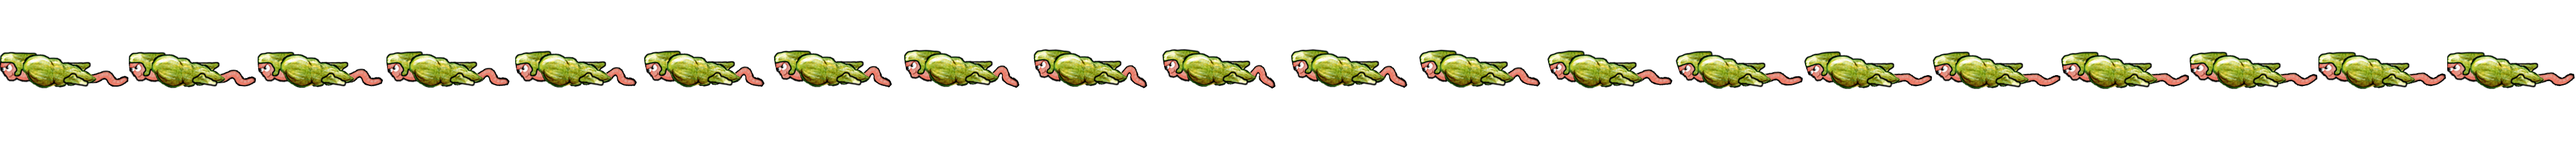
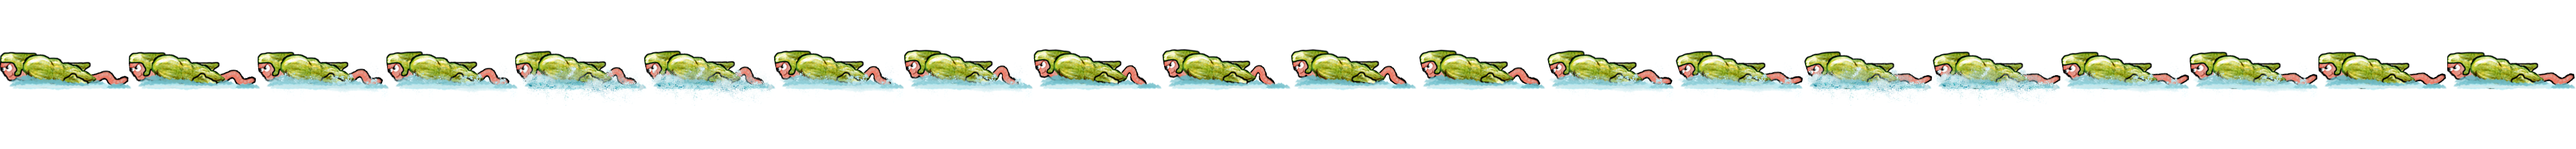
Added audio and some temporary audio files; integrated new HUD; integrated splash in paalworm move animation; added new platforms

Changed region(s): [[0.0, 0.4553, 1.0, 0.626]]

diff --git a/script/HTML5_2DRE/HTML5_2DRE.js b/script/HTML5_2DRE/HTML5_2DRE.js
@@ -2,4 +2,4 @@
 // authors: Ylon Schaeffer, Thomas van der Berg
 // source: https://github.com/tmsbrg/fries-heimeiden/tree/engine/script/HTML5_2DRE
 // license: XFree86 license - http://eraclesoftware.com/legal/
-function includeJS(e){var t=document.createElement("script");t.setAttribute("src",e),t.setAttribute("type","text/javascript"),document.getElementsByTagName("head")[0].appendChild(t)}function HTML5_2DRE_start(){loaded=View.init()&&Model.init()&&Controller.init(),loaded?(HTML5_2DRE_initialize(),HTML5_2DRE_gameLoop()):console.log("Error: One or more of MVC main objects could be initialized.")}function HTML5_2DRE_gameLoop(){prevTime=curTime,curTime=Date.now(),deltaTime===-1?deltaTime=1/View.fps:deltaTime=(curTime-prevTime)/1e3,Controller.base_update(),View.base_draw(),setTimeout(function(){HTML5_2DRE_gameLoop()},View.fpsinterval)}function HTML5_2DRE_initialize(){initialize&&initialize()}var prevTime=0,curTime=0,deltaTime=-1,IE=document.all?!0:!1;IE||document.captureEvents(Event.MOUSEMOVE),window.onload=HTML5_2DRE_start,Model={drawableObjects:new Array,init:function(){return!0},addDrawable:function(e,t){if(t==null||t==undefined)n=this.drawableObjects.length,t=n>0?this.drawableObjects[n-1].depth+1:0;else{var n=0;for(var r=0;r<this.drawableObjects.length;r++)t>=this.drawableObjects[r].depth&&(n=r+1)}e.depth=t,this.drawableObjects.insert(n,e),e.onDrawInit&&e.onDrawInit()},removeDrawable:function(e){for(var t=0;t<this.drawableObjects.length;t++)if(this.drawableObjects[t]==e){delete this.drawableObjects[t],this.drawableObjects.splice(t,1);break}},requestFromServer:function(e,t,n,r){r==null&&(r=!1),xmlhttp=new XMLHttpRequest,xmlhttp.onreadystatechange=function(){xmlhttp.readyState==4&&xmlhttp.status==200&&this.oncomplete(xmlhttp.responseText)},xmlhttp.open(r?"post":"get",e+(r?"":"?"+t),!0),xmlhttp.setRequestHeader("Content-Type","application/x-www-form-urlencoded"),xmlhttp.oncomplete=n,r?xmlhttp.send():xmlhttp.send(t)},getLocalTextFile:function(e){var t=new XMLHttpRequest;return t.open("GET",e,!1),t.overrideMimeType("text/plain"),t.send(),t.responseText}},Object.prototype.clone=function(){var e=this instanceof Array?[]:{};for(var t in this){if(t=="clone")continue;this[t]&&typeof this[t]=="object"?e[t]=this[t].cloneNode?this[t].cloneNode():this[t].clone():e[t]=this[t]}return e&&e.onCloneInit&&e.onCloneInit(),e},Object.prototype.extend=function(e){for(var t in e)this[t]=e[t]},Date.prototype.clone=function(){var e=new Date;return e.setTime(this.getTime()),e},Number.prototype.clone=Boolean.prototype.clone=String.prototype.clone=function(){return this},Number.prototype.formatMoney=function(e,t,n){var r=this,e=isNaN(e=Math.abs(e))?2:e,t=t==undefined?",":t,n=n==undefined?".":n,i=r<0?"-":"",s=parseInt(r=Math.abs(+r||0).toFixed(e))+"",o=(o=s.length)>3?o%3:0;return i+(o?s.substr(0,o)+n:"")+s.substr(o).replace(/(\d{3})(?=\d)/g,"$1"+n)+(e?t+Math.abs(r-s).toFixed(e).slice(2):"")},Array.prototype.insert=function(e,t){e>=this.length?this[this.length]=t:this.splice(e,0,t)},Model.Drawables=new Array,Model.Drawables.BaseDrawable={name:"DrawableObject",position:{x:0,y:0},size:{x:1,y:1},scale:{x:1,y:1},rotation:0,depth:0,color:"#000000",alpha:1,visible:!0,active:!0,ignoremouse:!1,parent:null,drawableObjects:new Array,cursor:"default",onCloneInit:function(){},onDrawInit:function(){},base_draw:function(e){if(!this.visible)return!1;this.draw(e),e.translate(-(this.size.x/2),-(this.size.y/2));for(var t=0;t<this.drawableObjects.length;t++)this.drawableObjects[t]&&(e.save(),e.translate(this.drawableObjects[t].position.x+this.drawableObjects[t].size.x/2,this.drawableObjects[t].position.y+this.drawableObjects[t].size.y/2),e.rotate(this.drawableObjects[t].rotation),e.globalAlpha=this.drawableObjects[t].alpha,this.drawableObjects[t].base_draw(e),e.restore())},base_update:function(){if(!this.active)return!1;this.update();for(var e=0;e<this.drawableObjects.length;e++)this.drawableObjects[e]&&this.drawableObjects[e].base_update()},draw:function(e){},update:function(){},setParent:function(e){this.parent=e},addDrawable:function(e,t){if(t==null||t==undefined)n=this.drawableObjects.length,t=n>0?this.drawableObjects[n-1].depth+1:0;else{var n=0;for(var r=0;r<this.drawableObjects.length;r++)t>=this.drawableObjects[r].depth&&(n=r+1)}e.depth=t,e.setParent(this),this.drawableObjects.insert(n,e),e.onDrawInit&&e.onDrawInit()},removeDrawable:function(e){for(var t=0;t<this.drawableObjects.length;t++)if(this.drawableObjects[t]==e){delete this.drawableObjects[t],this.drawableObjects.splice(t,1);break}},getobjectatpos:function(e,t){if(!e||!t)return this;e-=this.position.x,t-=this.position.y;if(this.drawableObjects&&this.drawableObjects.length>0)for(var n=this.drawableObjects.length-1;n>=0;n--)if(e>=this.drawableObjects[n].position.x&&e<=this.drawableObjects[n].position.x+this.drawableObjects[n].size.x&&t>=this.drawableObjects[n].position.y&&t<=this.drawableObjects[n].position.y+this.drawableObjects[n].size.y&&this.drawableObjects[n].visible&&this.drawableObjects[n].ignoremouse==0)return this.drawableObjects[n].getobjectatpos(e,t);return this},onclick:function(){},onhover:function(){},onmouseout:function(){},onmousein:function(){}},Model.Drawables.RectangleDrawable=Model.Drawables.BaseDrawable.clone(),Model.Drawables.RectangleDrawable.borderColor="#000000",Model.Drawables.RectangleDrawable.borderWidth=0,Model.Drawables.RectangleDrawable.draw=function(e){this.borderWidth>0&&(e.lineWidth=this.borderWidth,e.strokeStyle=this.borderColor,e.strokeRect(-(this.size.x/2),-(this.size.y/2),this.size.x*this.scale.x,this.size.y*this.scale.y)),e.fillStyle=this.color,e.fillRect(-(this.size.x/2),-(this.size.y/2),this.size.x*this.scale.x,this.size.y*this.scale.y)},Model.Drawables.TextDrawable=Model.Drawables.BaseDrawable.clone(),Model.Drawables.TextDrawable.text="",Model.Drawables.TextDrawable.borderColor="#000000",Model.Drawables.TextDrawable.borderWidth=0,Model.Drawables.TextDrawable.font="normal 12px Arial",Model.Drawables.TextDrawable.draw=function(e){this.text!==""&&(this.setStyle(e),this.borderWidth>0&&(e.lineWidth=this.borderWidth,e.strokeStyle=this.borderColor,e.strokeText(this.text,-(this.size.x/2),-(this.size.y/2),this.size.x)),e.fillText(this.text,-(this.size.x/2),-(this.size.y/2),this.size.x))},Model.Drawables.TextDrawable.setStyle=function(e){e.font=this.font,e.fillStyle=this.color,e.textBaseline="top"},Model.Drawables.TextDrawable.setText=function(e){this.text=e,View.ctx.font=this.font,View.ctx.fillStyle=this.color,View.ctx.textBaseline="top",this.size.x=View.ctx.measureText(e).width},Model.Drawables.SpriteDrawable=Model.Drawables.BaseDrawable.clone(),Model.Drawables.SpriteDrawable.borderColor="#000000",Model.Drawables.SpriteDrawable.borderWidth=0,Model.Drawables.SpriteDrawable._image=new Image,Model.Drawables.SpriteDrawable.curImage="",Model.Drawables.SpriteDrawable.onload=function(){this.loaded=!0},Model.Drawables.SpriteDrawable.load=function(e){this._image.onload=this.onload,this._image.parent=this,this._image.src=e,this.curImage=e},Model.Drawables.SpriteDrawable.draw=function(e){this._image.loaded&&(this.borderWidth>0&&(e.lineWidth=this.borderWidth,e.strokeStyle=this.borderColor,e.strokeRect(-(this.size.x/2),-(this.size.y/2),this.size.x*this.scale.x,this.size.y*this.scale.y)),e.drawImage(this._image,-(this.size.x/2),-(this.size.y/2),this.size.x*this.scale.x,this.size.y*this.scale.y))},Model.Drawables.ButtonDrawable=Model.Drawables.SpriteDrawable.clone(),Model.Drawables.ButtonDrawable.text="",Model.Drawables.ButtonDrawable.font="normal 12px Arial",Model.Drawables.ButtonDrawable.cursor="pointer",Model.Drawables.ButtonDrawable.textPos=[5,5],Model.Drawables.ButtonDrawable.onclick=function(){var e=window[this.name+"_onclick"];e&&e()},Model.Drawables.ButtonDrawable.draw=function(e){this._image.loaded&&(e.drawImage(this._image,-(this.size.x/2),-(this.size.y/2),this.size.x*this.scale.x,this.size.y*this.scale.y),this.text!==""&&(e.font=this.font,e.fillStyle=this.color,e.textBaseline="top",e.fillText(this.text,-(this.size.x/2)+this.textPos[0],-(this.size.y/2)+this.textPos[1],this.size.x)))},Model.Drawables.TextBox=Model.Drawables.RectangleDrawable.clone(),Model.Drawables.TextBox.padding=5,Model.Drawables.TextBox.textVerticalSize=20,Model.Drawables.TextBox.color="#8FD8D8",Model.Drawables.TextBox.borderWidth=3,Model.Drawables.TextBox.borderColor="#000",Model.Drawables.TextBox.lines=new Array,Model.Drawables.TextBox.lineWidth=300,Model.Drawables.TextBox.largestLine=0,Model.Drawables.TextBox.fontSize=14,Model.Drawables.TextBox.font="normal "+Model.Drawables.TextBox.fontSize+"px Courier",Model.Drawables.TextBox.text="",Model.Drawables.TextBox.setFont=function(e){this.font=e,this.fontSize=Number(this.font.substring(this.font.indexOf(" "),this.font.indexOf("px"))),this.setText(this.text)},Model.Drawables.TextBox.setText=function(e){this.clearText(),this.appendText(e),this.updateSize()},Model.Drawables.TextBox.appendText=function(e){e=this.removeLeadingWhiteSpace(e);var t=this.lineWidth/this.fontSize;if(t>=e.length)this.lines[this.lines.length]=this.createLine(e);else{var n=e.substr(0,t),r=n.lastIndexOf(" ");r>0&&(n=n.substr(0,r)),this.lines[this.lines.length]=this.createLine(n),this.appendText(e.substr(n.length,e.length-n.length))}},Model.Drawables.TextBox.createLine=function(e){e.length>this.largestLine&&(this.largestLine=e.length);var t=Model.Drawables.TextDrawable.clone();return t.position={x:this.padding,y:this.padding+this.textVerticalSize*this.lines.length},t.font=this.font,t.setText(e),this.text+=e,this.addDrawable(t),t},Model.Drawables.TextBox.clearText=function(){for(var e=0;e<this.lines.length;e++)this.removeDrawable(this.lines[e]);this.largestLine=0,this.text="",this.lines=new Array},Model.Drawables.TextBox.updateSize=function(){this.size={x:this.padding*2+this.largestLine*this.fontSize/2+this.fontSize*2,y:this.padding*2+this.textVerticalSize*this.lines.length}},Model.Drawables.TextBox.removeLeadingWhiteSpace=function(e){for(var t=0;t<e.length&&e.charAt(t)==" ";t++);return e.substring(t,e.length)},Model.Drawables.AnimationDrawable=Model.Drawables.SpriteDrawable.clone(),Model.Drawables.AnimationDrawable.frameSize={x:1,y:1},Model.Drawables.AnimationDrawable.frameN=1,Model.Drawables.AnimationDrawable.secondsPerFrame=1,Model.Drawables.AnimationDrawable.offset={x:0,y:0},Model.Drawables.AnimationDrawable.framePadding={x:0,y:0},Model.Drawables.AnimationDrawable.paused=!1,Model.Drawables.AnimationDrawable._framesPerRow=0,Model.Drawables.AnimationDrawable._currentFrame=0,Model.Drawables.AnimationDrawable._currentFrameOfRow=0,Model.Drawables.AnimationDrawable._currentRow=0,Model.Drawables.AnimationDrawable._secondsSinceNewFrame=0,Model.Drawables.AnimationDrawable.loadAnimation=function(e,t){this.load(e),this.loadSettings(t)},Model.Drawables.AnimationDrawable.loadSettings=function(e){},Model.Drawables.AnimationDrawable.onload=function(){this.loaded=!0,this.parent.calculateFramesPerRow()},Model.Drawables.AnimationDrawable.calculateFramesPerRow=function(){this._framesPerRow=Math.floor((this._image.naturalWidth-this.offset.x)/(this.framePadding.x+this.frameSize.x))},Model.Drawables.AnimationDrawable.reset=function(){this._currentFrame=this._currentFrameOfRow=this._currentRow=this._secondsSinceNewFrame=0,this.paused=!1},Model.Drawables.AnimationDrawable.pause=function(){this.paused=!0},Model.Drawables.AnimationDrawable.unpause=function(){this.paused=!1},Model.Drawables.AnimationDrawable.draw=function(e){this._image.loaded&&(this.paused||(this._secondsSinceNewFrame+=deltaTime),this._secondsSinceNewFrame>=this.secondsPerFrame&&(this._secondsSinceNewFrame=0,this._currentFrame++,this._currentFrameOfRow++,this._currentFrame==this.frameN-1&&this.onAnimationComplete(),this._currentFrame>=this.frameN?(this._currentFrame=0,this._currentFrameOfRow=this._currentFrame,this._currentRow=this._currentFrame):this._currentFrameOfRow>=this._framesPerRow&&(this._currentRow++,this._currentFrameOfRow=0)),this.borderWidth>0&&(e.lineWidth=this.borderWidth,e.strokeStyle=this.borderColor,e.strokeRect(-(this.size.x/2),-(this.size.y/2),this.size.x*this.scale.x,this.size.y*this.scale.y)),e.drawImage(this._image,this.offset.x+this.framePadding.x+this.framePadding.x*2*this._currentFrameOfRow+this.frameSize.x*this._currentFrameOfRow,this.offset.y+this.framePadding.y+this.framePadding.y*2*this._currentRow+this.frameSize.y*this._currentRow,this.frameSize.x,this.frameSize.y,-(this.size.x/2),-(this.size.y/2),this.size.x*this.scale.x,this.size.y*this.scale.y))},Model.Drawables.AnimationDrawable.onAnimationComplete=function(){},Model.Drawables.AnimatedDrawable=Model.Drawables.BaseDrawable.clone(),Model.Drawables.AnimatedDrawable.animationList=new Array,Model.Drawables.AnimatedDrawable.currentAnimation=null,Model.Drawables.AnimatedDrawable.currentAnimationIndex=null,Model.Drawables.AnimatedDrawable.addAnimations=function(){for(var e=0;e<arguments.length;e++)this.animationList[this.animationList.length]=arguments[e],arguments[e].visible=!1,arguments[e].size=this.size.clone(),arguments[e].ignoremouse=!0,arguments[e].onAnimationComplete=function(){this.parent.handleAnimationComplete()},this.addDrawable(arguments[e])},Model.Drawables.AnimatedDrawable.showAnimation=function(e){this.animationList[e]?(this.currentAnimation&&this.stopAnimation(),this.currentAnimation=this.animationList[e],this.currentAnimationIndex=e,this.currentAnimation.visible=!0):console.log("No animation with index number: "+e)},Model.Drawables.AnimatedDrawable.stopAnimation=function(){this.currentAnimationIndex=null,this.currentAnimation.visible=!1,this.currentAnimation.reset(),this.currentAnimation=null},Model.Drawables.AnimatedDrawable.onAnimationComplete=function(e){},Model.Drawables.AnimatedDrawable.handleAnimationComplete=function(){this.onAnimationComplete(this.currentAnimationIndex)},Model.Drawables.AnimatedDrawable.reset=function(){this.currentAnimation&&this.currentAnimation.reset()},Model.Drawables.AnimatedDrawable.pause=function(){this.currentAnimation&&this.currentAnimation.pause()},Model.Drawables.AnimatedDrawable.unpause=function(){this.currentAnimation&&this.currentAnimation.unpause()},View={canvasID:"HTML5_2DRE",canvas:null,ctx:null,fps:50,fpsinterval:0,lastfps:0,fpscounter:0,fpstimer:0,mousePos:{x:0,y:0},canvasWidth:0,canvasHeight:0,mhoverObject:null,mdownObject:null,init:function(){return this.canvas=document.getElementById(this.canvasID),this.canvas.getContext?(this.ctx=this.canvas.getContext("2d"),this.canvas.onselectstart=function(){return!1},this.canvas.oncontextmenu=function(){return!1},this.canvasWidth=this.canvas.width,this.canvasHeight=this.canvas.height,this.fpsinterval=1e3/this.fps,this.canvas.onmousedown=function(e){View.mousedown(e)},this.canvas.onmouseup=function(e){View.mouseup(e)},this.canvas.onmousemove=function(e){View.mousemove(e)},this.canvas.ondblclick=function(e){View.mousedblclick(e)},!0):!1},base_draw:function(){this.ctx.clearRect(0,0,this.canvasWidth,this.canvasHeight);for(var e=0;e<Model.drawableObjects.length;e++)Model.drawableObjects[e]&&(this.ctx.save(),this.ctx.translate(Model.drawableObjects[e].position.x+Model.drawableObjects[e].size.x/2,Model.drawableObjects[e].position.y+Model.drawableObjects[e].size.y/2),this.ctx.rotate(Model.drawableObjects[e].rotation),this.ctx.globalAlpha=Model.drawableObjects[e].alpha,Model.drawableObjects[e].base_draw(this.ctx),this.ctx.restore());this.fpstimer>=1&&(this.lastfps=this.fpscounter,this.fpscounter=0,this.fpstimer=0),this.fpstimer+=deltaTime,this.fpscounter++,this.draw&&this.draw()},mouseposition:function(e){if(e==null)return this.mousePos;var t=this.canvas.getBoundingClientRect(),n=document.documentElement,r=e.clientX-t.left,i=e.clientY-t.top;return this.mousePos={x:r,y:i}},mousedown:function(e){var t=this.mouseposition(e);this.mdownObject=this.getobjectatpos(t.x,t.y)},mouseup:function(e){var t=this.mouseposition(e),n=this.getobjectatpos(t.x,t.y);n!==null&&this.mdownObject===n&&Controller.mouse_objectClick(n),n=null},mousemove:function(e){var t=this.mouseposition(e),n=this.getobjectatpos(t.x,t.y);this.mhoverObject!==null&&n!=this.mhoverObject&&Controller.mouse_objectHoverOut(this.mhoverObject),n!=null&&n!=this.mhoverObject&&Controller.mouse_objectHoverIn(n),n?(this.canvas.style.cursor=n.cursor,Controller.mouse_objectHover(n),this.mhoverObject=n):(this.setstyledefaults(),this.mhoverObject=null)},setstyledefaults:function(){this.canvas.style.cursor="default"},mousedblclick:function(e){var t=this.mouseposition(e),n=this.getobjectatpos(t.x,t.y);n!==null&&this.mdownObject===n&&Controller.mouse_objectDoubleClick(n),n=null},getobjectatpos:function(e,t){if(!e||!t)return!1;if(Model.drawableObjects&&Model.drawableObjects.length>0)for(var n=Model.drawableObjects.length-1;n>=0;n--)if(e>=Model.drawableObjects[n].position.x&&e<=Model.drawableObjects[n].position.x+Model.drawableObjects[n].size.x&&t>=Model.drawableObjects[n].position.y&&t<=Model.drawableObjects[n].position.y+Model.drawableObjects[n].size.y&&Model.drawableObjects[n].visible&&Model.drawableObjects[n].ignoremouse==0)return Model.drawableObjects[n].getobjectatpos(e,t);return null}},Controller={isCtrl:!1,keyDown:[],init:function(){return document.onkeyup=function(e){e.which==17&&(Controller.isCtrl=!1),Controller.keyDown[e.which]=!1},document.onkeydown=function(e){e.which==17&&(Controller.isCtrl=!0),Controller.keyDown[e.which]=!0},!0},base_update:function(){for(var e=0;e<Model.drawableObjects.length;e++)Model.drawableObjects[e]&&Model.drawableObjects[e].base_update();this.update&&this.update()},update:function(){},mouse_objectClick:function(e){e!==null&&e.onclick()},mouse_objectDoubleClick:function(e){e!==null&&e.onclick()},mouse_objectHover:function(e){e!==null&&e.onhover()},mouse_objectHoverOut:function(e){e!==null&&e.onmouseout&&e.onmouseout()},mouse_objectHoverIn:function(e){e!==null&&e.onmousein&&e.onmousein()}};
+function includeJS(e){var t=document.createElement("script");t.setAttribute("src",e),t.setAttribute("type","text/javascript"),document.getElementsByTagName("head")[0].appendChild(t)}function HTML5_2DRE_start(){loaded=View.init()&&Model.init()&&Controller.init(),loaded?(HTML5_2DRE_initialize(),HTML5_2DRE_gameLoop()):console.log("Error: One or more of MVC main objects could be initialized.")}function HTML5_2DRE_gameLoop(){prevTime=curTime,curTime=Date.now(),deltaTime===-1?deltaTime=1/View.fps:deltaTime=(curTime-prevTime)/1e3,Controller.base_update(),View.base_draw(),setTimeout(function(){HTML5_2DRE_gameLoop()},View.fpsinterval)}function HTML5_2DRE_initialize(){initialize&&initialize()}var prevTime=0,curTime=0,deltaTime=-1,IE=document.all?!0:!1;IE||document.captureEvents(Event.MOUSEMOVE),window.onload=HTML5_2DRE_start,Model={drawableObjects:new Array,init:function(){return!0},addDrawable:function(e,t){if(t==null||t==undefined)n=this.drawableObjects.length,t=n>0?this.drawableObjects[n-1].depth+1:0;else{var n=0;for(var r=0;r<this.drawableObjects.length;r++)t>=this.drawableObjects[r].depth&&(n=r+1)}e.depth=t,this.drawableObjects.insert(n,e),e.onDrawInit&&e.onDrawInit()},removeDrawable:function(e){for(var t=0;t<this.drawableObjects.length;t++)if(this.drawableObjects[t]==e){delete this.drawableObjects[t],this.drawableObjects.splice(t,1);break}},requestFromServer:function(e,t,n,r){r==null&&(r=!1),xmlhttp=new XMLHttpRequest,xmlhttp.onreadystatechange=function(){xmlhttp.readyState==4&&xmlhttp.status==200&&this.oncomplete(xmlhttp.responseText)},xmlhttp.open(r?"post":"get",e+(r?"":"?"+t),!0),xmlhttp.setRequestHeader("Content-Type","application/x-www-form-urlencoded"),xmlhttp.oncomplete=n,r?xmlhttp.send():xmlhttp.send(t)},getLocalTextFile:function(e){var t=new XMLHttpRequest;return t.open("GET",window.chrome?chrome.extension.getURL(e):e,!1),t.overrideMimeType("text/plain"),t.send(),t.responseText}},Object.prototype.clone=function(){var e=this instanceof Array?[]:{};for(var t in this){if(t=="clone")continue;this[t]&&typeof this[t]=="object"?e[t]=this[t].cloneNode?this[t].cloneNode():this[t].clone():e[t]=this[t]}return e&&e.onCloneInit&&e.onCloneInit(),e},Object.prototype.extend=function(e){for(var t in e)this[t]=e[t]},Date.prototype.clone=function(){var e=new Date;return e.setTime(this.getTime()),e},Number.prototype.clone=Boolean.prototype.clone=String.prototype.clone=function(){return this},Number.prototype.formatMoney=function(e,t,n){var r=this,e=isNaN(e=Math.abs(e))?2:e,t=t==undefined?",":t,n=n==undefined?".":n,i=r<0?"-":"",s=parseInt(r=Math.abs(+r||0).toFixed(e))+"",o=(o=s.length)>3?o%3:0;return i+(o?s.substr(0,o)+n:"")+s.substr(o).replace(/(\d{3})(?=\d)/g,"$1"+n)+(e?t+Math.abs(r-s).toFixed(e).slice(2):"")},Array.prototype.insert=function(e,t){e>=this.length?this[this.length]=t:this.splice(e,0,t)},Model.Drawables=new Array,Model.Drawables.BaseDrawable={name:"DrawableObject",position:{x:0,y:0},size:{x:1,y:1},scale:{x:1,y:1},rotation:0,depth:0,color:"#000000",alpha:1,visible:!0,active:!0,ignoremouse:!1,parent:null,drawableObjects:new Array,cursor:"default",onCloneInit:function(){},onDrawInit:function(){},base_draw:function(e){if(!this.visible)return!1;this.draw(e),e.translate(-(this.size.x/2),-(this.size.y/2));for(var t=0;t<this.drawableObjects.length;t++)this.drawableObjects[t]&&(e.save(),e.translate(this.drawableObjects[t].position.x+this.drawableObjects[t].size.x/2,this.drawableObjects[t].position.y+this.drawableObjects[t].size.y/2),e.rotate(this.drawableObjects[t].rotation),e.globalAlpha=this.drawableObjects[t].alpha,this.drawableObjects[t].base_draw(e),e.restore())},base_update:function(){if(!this.active)return!1;this.update();for(var e=0;e<this.drawableObjects.length;e++)this.drawableObjects[e]&&this.drawableObjects[e].base_update()},draw:function(e){},update:function(){},setParent:function(e){this.parent=e},addDrawable:function(e,t){if(t==null||t==undefined)n=this.drawableObjects.length,t=n>0?this.drawableObjects[n-1].depth+1:0;else{var n=0;for(var r=0;r<this.drawableObjects.length;r++)t>=this.drawableObjects[r].depth&&(n=r+1)}e.depth=t,e.setParent(this),this.drawableObjects.insert(n,e),e.onDrawInit&&e.onDrawInit()},removeDrawable:function(e){for(var t=0;t<this.drawableObjects.length;t++)if(this.drawableObjects[t]==e){delete this.drawableObjects[t],this.drawableObjects.splice(t,1);break}},getobjectatpos:function(e,t){if(!e||!t)return this;e-=this.position.x,t-=this.position.y;if(this.drawableObjects&&this.drawableObjects.length>0)for(var n=this.drawableObjects.length-1;n>=0;n--)if(e>=this.drawableObjects[n].position.x&&e<=this.drawableObjects[n].position.x+this.drawableObjects[n].size.x&&t>=this.drawableObjects[n].position.y&&t<=this.drawableObjects[n].position.y+this.drawableObjects[n].size.y&&this.drawableObjects[n].visible&&this.drawableObjects[n].ignoremouse==0)return this.drawableObjects[n].getobjectatpos(e,t);return this},onmousedown:function(){},onclick:function(){},onhover:function(){},onmouseout:function(){},onmousein:function(){}},Model.Drawables.RectangleDrawable=Model.Drawables.BaseDrawable.clone(),Model.Drawables.RectangleDrawable.borderColor="#000000",Model.Drawables.RectangleDrawable.borderWidth=0,Model.Drawables.RectangleDrawable.draw=function(e){this.borderWidth>0&&(e.lineWidth=this.borderWidth,e.strokeStyle=this.borderColor,e.strokeRect(-(this.size.x/2),-(this.size.y/2),this.size.x*this.scale.x,this.size.y*this.scale.y)),e.fillStyle=this.color,e.fillRect(-(this.size.x/2),-(this.size.y/2),this.size.x*this.scale.x,this.size.y*this.scale.y)},Model.Drawables.TextDrawable=Model.Drawables.BaseDrawable.clone(),Model.Drawables.TextDrawable.text="",Model.Drawables.TextDrawable.borderColor="#000000",Model.Drawables.TextDrawable.borderWidth=0,Model.Drawables.TextDrawable.font="normal 12px Arial",Model.Drawables.TextDrawable.draw=function(e){this.text!==""&&(this.setStyle(e),this.borderWidth>0&&(e.lineWidth=this.borderWidth,e.strokeStyle=this.borderColor,e.strokeText(this.text,-(this.size.x/2),-(this.size.y/2),this.size.x)),e.fillText(this.text,-(this.size.x/2),-(this.size.y/2),this.size.x))},Model.Drawables.TextDrawable.setStyle=function(e){e.font=this.font,e.fillStyle=this.color,e.textBaseline="top"},Model.Drawables.TextDrawable.setText=function(e){this.text=e,View.ctx.font=this.font,View.ctx.fillStyle=this.color,View.ctx.textBaseline="top",this.size.x=View.ctx.measureText(e).width},Model.Drawables.SpriteDrawable=Model.Drawables.BaseDrawable.clone(),Model.Drawables.SpriteDrawable.borderColor="#000000",Model.Drawables.SpriteDrawable.borderWidth=0,Model.Drawables.SpriteDrawable._image=new Image,Model.Drawables.SpriteDrawable.curImage="",Model.Drawables.SpriteDrawable.onload=function(){this.loaded=!0},Model.Drawables.SpriteDrawable.load=function(e){this._image.onload=this.onload,this._image.parent=this,this._image.src=e,this.curImage=e},Model.Drawables.SpriteDrawable.draw=function(e){this._image.loaded&&(this.borderWidth>0&&(e.lineWidth=this.borderWidth,e.strokeStyle=this.borderColor,e.strokeRect(-(this.size.x/2),-(this.size.y/2),this.size.x*this.scale.x,this.size.y*this.scale.y)),e.drawImage(this._image,-(this.size.x/2),-(this.size.y/2),this.size.x*this.scale.x,this.size.y*this.scale.y))},Model.Drawables.ButtonDrawable=Model.Drawables.SpriteDrawable.clone(),Model.Drawables.ButtonDrawable.text="",Model.Drawables.ButtonDrawable.font="normal 12px Arial",Model.Drawables.ButtonDrawable.cursor="pointer",Model.Drawables.ButtonDrawable.textPos=[5,5],Model.Drawables.ButtonDrawable.onclick=function(){var e=window[this.name+"_onclick"];e&&e()},Model.Drawables.ButtonDrawable.draw=function(e){this._image.loaded&&(e.drawImage(this._image,-(this.size.x/2),-(this.size.y/2),this.size.x*this.scale.x,this.size.y*this.scale.y),this.text!==""&&(e.font=this.font,e.fillStyle=this.color,e.textBaseline="top",e.fillText(this.text,-(this.size.x/2)+this.textPos[0],-(this.size.y/2)+this.textPos[1],this.size.x)))},Model.Drawables.TextBox=Model.Drawables.RectangleDrawable.clone(),Model.Drawables.TextBox.padding=5,Model.Drawables.TextBox.textVerticalSize=20,Model.Drawables.TextBox.color="#8FD8D8",Model.Drawables.TextBox.borderWidth=3,Model.Drawables.TextBox.borderColor="#000",Model.Drawables.TextBox.lines=new Array,Model.Drawables.TextBox.lineWidth=300,Model.Drawables.TextBox.largestLine=0,Model.Drawables.TextBox.fontSize=14,Model.Drawables.TextBox.font="normal "+Model.Drawables.TextBox.fontSize+"px Courier",Model.Drawables.TextBox.text="",Model.Drawables.TextBox.setFont=function(e){this.font=e,this.fontSize=Number(this.font.substring(this.font.indexOf(" "),this.font.indexOf("px"))),this.setText(this.text)},Model.Drawables.TextBox.setText=function(e){this.clearText(),this.appendText(e),this.updateSize()},Model.Drawables.TextBox.appendText=function(e){e=this.removeLeadingWhiteSpace(e);var t=this.lineWidth/this.fontSize;if(t>=e.length)this.lines[this.lines.length]=this.createLine(e);else{var n=e.substr(0,t),r=n.lastIndexOf(" ");r>0&&(n=n.substr(0,r)),this.lines[this.lines.length]=this.createLine(n),this.appendText(e.substr(n.length,e.length-n.length))}},Model.Drawables.TextBox.createLine=function(e){e.length>this.largestLine&&(this.largestLine=e.length);var t=Model.Drawables.TextDrawable.clone();return t.position={x:this.padding,y:this.padding+this.textVerticalSize*this.lines.length},t.font=this.font,t.setText(e),this.text+=e,this.addDrawable(t),t},Model.Drawables.TextBox.clearText=function(){for(var e=0;e<this.lines.length;e++)this.removeDrawable(this.lines[e]);this.largestLine=0,this.text="",this.lines=new Array},Model.Drawables.TextBox.updateSize=function(){this.size={x:this.padding*2+this.largestLine*this.fontSize/2+this.fontSize*2,y:this.padding*2+this.textVerticalSize*this.lines.length}},Model.Drawables.TextBox.removeLeadingWhiteSpace=function(e){for(var t=0;t<e.length&&e.charAt(t)==" ";t++);return e.substring(t,e.length)},Model.Drawables.AnimationDrawable=Model.Drawables.SpriteDrawable.clone(),Model.Drawables.AnimationDrawable.frameSize={x:1,y:1},Model.Drawables.AnimationDrawable.frameN=1,Model.Drawables.AnimationDrawable.secondsPerFrame=1,Model.Drawables.AnimationDrawable.offset={x:0,y:0},Model.Drawables.AnimationDrawable.framePadding={x:0,y:0},Model.Drawables.AnimationDrawable.paused=!1,Model.Drawables.AnimationDrawable._framesPerRow=0,Model.Drawables.AnimationDrawable._currentFrame=0,Model.Drawables.AnimationDrawable._currentFrameOfRow=0,Model.Drawables.AnimationDrawable._currentRow=0,Model.Drawables.AnimationDrawable._secondsSinceNewFrame=0,Model.Drawables.AnimationDrawable.loadAnimation=function(e,t){this.load(e),this.loadSettings(t)},Model.Drawables.AnimationDrawable.loadSettings=function(e){},Model.Drawables.AnimationDrawable.onload=function(){this.loaded=!0,this.parent.calculateFramesPerRow()},Model.Drawables.AnimationDrawable.calculateFramesPerRow=function(){this._framesPerRow=Math.floor((this._image.naturalWidth-this.offset.x)/(this.framePadding.x+this.frameSize.x))},Model.Drawables.AnimationDrawable.reset=function(){this._currentFrame=this._currentFrameOfRow=this._currentRow=this._secondsSinceNewFrame=0,this.paused=!1},Model.Drawables.AnimationDrawable.pause=function(){this.paused=!0},Model.Drawables.AnimationDrawable.unpause=function(){this.paused=!1},Model.Drawables.AnimationDrawable.draw=function(e){this._image.loaded&&(this.paused||(this._secondsSinceNewFrame+=deltaTime),this._secondsSinceNewFrame>=this.secondsPerFrame&&(this._secondsSinceNewFrame=0,this._currentFrame++,this._currentFrameOfRow++,this._currentFrame==this.frameN-1&&this.onAnimationComplete(),this._currentFrame>=this.frameN?(this._currentFrame=0,this._currentFrameOfRow=this._currentFrame,this._currentRow=this._currentFrame):this._currentFrameOfRow>=this._framesPerRow&&(this._currentRow++,this._currentFrameOfRow=0)),this.borderWidth>0&&(e.lineWidth=this.borderWidth,e.strokeStyle=this.borderColor,e.strokeRect(-(this.size.x/2),-(this.size.y/2),this.size.x*this.scale.x,this.size.y*this.scale.y)),e.drawImage(this._image,this.offset.x+this.framePadding.x+this.framePadding.x*2*this._currentFrameOfRow+this.frameSize.x*this._currentFrameOfRow,this.offset.y+this.framePadding.y+this.framePadding.y*2*this._currentRow+this.frameSize.y*this._currentRow,this.frameSize.x,this.frameSize.y,-(this.size.x/2),-(this.size.y/2),this.size.x*this.scale.x,this.size.y*this.scale.y))},Model.Drawables.AnimationDrawable.onAnimationComplete=function(){},Model.Drawables.AnimatedDrawable=Model.Drawables.BaseDrawable.clone(),Model.Drawables.AnimatedDrawable.animationList=new Array,Model.Drawables.AnimatedDrawable.currentAnimation=null,Model.Drawables.AnimatedDrawable.currentAnimationIndex=null,Model.Drawables.AnimatedDrawable.addAnimations=function(){for(var e=0;e<arguments.length;e++)this.animationList[this.animationList.length]=arguments[e],arguments[e].visible=!1,arguments[e].size=this.size.clone(),arguments[e].ignoremouse=!0,arguments[e].onAnimationComplete=function(){this.parent.handleAnimationComplete()},this.addDrawable(arguments[e])},Model.Drawables.AnimatedDrawable.showAnimation=function(e){this.animationList[e]?(this.currentAnimation&&this.stopAnimation(),this.currentAnimation=this.animationList[e],this.currentAnimationIndex=e,this.currentAnimation.visible=!0):console.log("No animation with index number: "+e)},Model.Drawables.AnimatedDrawable.stopAnimation=function(){this.currentAnimationIndex=null,this.currentAnimation.visible=!1,this.currentAnimation.reset(),this.currentAnimation=null},Model.Drawables.AnimatedDrawable.onAnimationComplete=function(e){},Model.Drawables.AnimatedDrawable.handleAnimationComplete=function(){this.onAnimationComplete(this.currentAnimationIndex)},Model.Drawables.AnimatedDrawable.reset=function(){this.currentAnimation&&this.currentAnimation.reset()},Model.Drawables.AnimatedDrawable.pause=function(){this.currentAnimation&&this.currentAnimation.pause()},Model.Drawables.AnimatedDrawable.unpause=function(){this.currentAnimation&&this.currentAnimation.unpause()},View={canvasID:"HTML5_2DRE",canvas:null,ctx:null,fps:50,fpsinterval:0,lastfps:0,fpscounter:0,fpstimer:0,mousePos:{x:0,y:0},canvasWidth:0,canvasHeight:0,mhoverObject:null,mdownObject:null,init:function(){return this.canvas=document.getElementById(this.canvasID),this.canvas.getContext?(this.ctx=this.canvas.getContext("2d"),this.canvas.onselectstart=function(){return!1},this.canvas.oncontextmenu=function(){return!1},this.canvasWidth=this.canvas.width,this.canvasHeight=this.canvas.height,this.fpsinterval=1e3/this.fps,this.canvas.onmousedown=function(e){View.mousedown(e)},this.canvas.onmouseup=function(e){View.mouseup(e)},this.canvas.onmousemove=function(e){View.mousemove(e)},this.canvas.ondblclick=function(e){View.mousedblclick(e)},!0):!1},base_draw:function(){this.ctx.clearRect(0,0,this.canvasWidth,this.canvasHeight);for(var e=0;e<Model.drawableObjects.length;e++)Model.drawableObjects[e]&&(this.ctx.save(),this.ctx.translate(Model.drawableObjects[e].position.x+Model.drawableObjects[e].size.x/2,Model.drawableObjects[e].position.y+Model.drawableObjects[e].size.y/2),this.ctx.rotate(Model.drawableObjects[e].rotation),this.ctx.globalAlpha=Model.drawableObjects[e].alpha,Model.drawableObjects[e].base_draw(this.ctx),this.ctx.restore());this.fpstimer>=1&&(this.lastfps=this.fpscounter,this.fpscounter=0,this.fpstimer=0),this.fpstimer+=deltaTime,this.fpscounter++,this.draw&&this.draw()},mouseposition:function(e){if(e==null)return this.mousePos;var t=this.canvas.getBoundingClientRect(),n=document.documentElement,r=e.clientX-t.left,i=e.clientY-t.top;return this.mousePos={x:r,y:i}},mousedown:function(e){var t=this.mouseposition(e);this.mdownObject=this.getobjectatpos(t.x,t.y),this.mdownObject!==null&&Controller.mouse_objectMouseDown(this.mdownObject)},mouseup:function(e){var t=this.mouseposition(e),n=this.getobjectatpos(t.x,t.y);n!==null&&this.mdownObject===n&&Controller.mouse_objectClick(n),n=null},mousemove:function(e){var t=this.mouseposition(e),n=this.getobjectatpos(t.x,t.y);this.mhoverObject!==null&&n!=this.mhoverObject&&Controller.mouse_objectHoverOut(this.mhoverObject),n!=null&&n!=this.mhoverObject&&Controller.mouse_objectHoverIn(n),n?(this.canvas.style.cursor=n.cursor,Controller.mouse_objectHover(n),this.mhoverObject=n):(this.setstyledefaults(),this.mhoverObject=null)},setstyledefaults:function(){this.canvas.style.cursor="default"},mousedblclick:function(e){var t=this.mouseposition(e),n=this.getobjectatpos(t.x,t.y);n!==null&&this.mdownObject===n&&Controller.mouse_objectDoubleClick(n),n=null},getobjectatpos:function(e,t){if(!e||!t)return!1;if(Model.drawableObjects&&Model.drawableObjects.length>0)for(var n=Model.drawableObjects.length-1;n>=0;n--)if(e>=Model.drawableObjects[n].position.x&&e<=Model.drawableObjects[n].position.x+Model.drawableObjects[n].size.x&&t>=Model.drawableObjects[n].position.y&&t<=Model.drawableObjects[n].position.y+Model.drawableObjects[n].size.y&&Model.drawableObjects[n].visible&&Model.drawableObjects[n].ignoremouse==0)return Model.drawableObjects[n].getobjectatpos(e,t);return null}},Controller={isCtrl:!1,keyDown:[],init:function(){return document.onkeyup=function(e){e.which==17&&(Controller.isCtrl=!1),Controller.keyDown[e.which]=!1},document.onkeydown=function(e){e.which==17&&(Controller.isCtrl=!0),Controller.keyDown[e.which]=!0},!0},base_update:function(){for(var e=0;e<Model.drawableObjects.length;e++)Model.drawableObjects[e]&&Model.drawableObjects[e].base_update();this.update&&this.update()},update:function(){},mouse_objectMouseDown:function(e){e!==null&&e.onmousedown()},mouse_objectClick:function(e){e!==null&&e.onclick()},mouse_objectDoubleClick:function(e){e!==null&&e.onclick()},mouse_objectHover:function(e){e!==null&&e.onhover()},mouse_objectHoverOut:function(e){e!==null&&e.onmouseout&&e.onmouseout()},mouse_objectHoverIn:function(e){e!==null&&e.onmousein&&e.onmousein()}};

diff --git a/script/game/heimeidendrawables.js b/script/game/heimeidendrawables.js
@@ -60,7 +60,7 @@ Tile.extend({
         this.platform = null;
     },
     /* handles building on the tile */
-    onclick : function () {
+    onmousedown : function () {
         if (!PlayerData.paused && PlayerData.selectedBuilding != null) {
             switch (PlayerData.selectedBuilding) {
             case Stone:
@@ -169,6 +169,7 @@ Actor.extend({
     speed : 0, /* speed, scaled by tileSize, set via the setSpeed function */
     absoluteSpeed : 0, /* actual speed used for calculations */
     animations : [], /* list of animation sources */
+    sounds : [], /* list of sound sources */
     goDie : false, /* used by onAnimationComplete to signal the end of the death
                       animation */
     deathAnimation : -1, /* animation(index) to play before dying, none if -1 */
@@ -178,11 +179,14 @@ Actor.extend({
     ignoreCollisions : [], /* array of collisionTags of objects it won't check
                               collisions with */
     actorList : null, /* list of actors to check collisions with */
+    audio : null,
     onDrawInit : function() {
         this.absoluteSpeed = this.calculateAbsoluteSpeed();
         this.centre = this.calculateCentre();
         this.addAnimationsWithJSON(this.animations);
         this.showAnimation(0);
+        this.audio = AudioPlayer.clone();
+        this.audio.load(this.sounds);
         this.onInit();
     },
     preload : function() {
@@ -190,7 +194,7 @@ Actor.extend({
             preload(this.animations[i] + ".png");
         }
     },
-    // Sets its size and then recalculates its centre
+    /* sets its size and then recalculates its centre */
     setSize : function(size) {
         this.size = size;
         this.centre = this.calculateCentre();
@@ -333,6 +337,11 @@ Actor.extend({
 
         this.showAnimation(animation);
     },
+    playAudio : function(audioIndex) {
+        if (PlayerData.audioEnabled) {
+            this.audio.play(audioIndex);
+        }
+    },
     onAnimationComplete : function(currentAnimation) {
         if (currentAnimation === this.deathAnimation) {
             this.goDie = true;
@@ -385,7 +394,7 @@ Enemy.extend({
         this.centreOnTile(true, false);
         this.position.y += settings.tileSize.y * 0.05;
     },
-    // attacks given actor
+    /* attacks given actor */
     attack : function (other) {
         other.changeHealth(-this.damage);
     },
@@ -399,12 +408,14 @@ Enemy.extend({
             this.attackTimer -= deltaTime;
         }
 
+        /* make speed non-linear, based on animation */
         this.absoluteSpeed = this.speed * 
             (Math.sin(this.currentAnimation._currentFrame /
                       this.currentAnimation.frameN * (2*Math.PI) + this.moveAnimationOffset) *
              0.5 + 0.5) * settings.tileSize.x;
     },
     onChangeHealth : function () {
+        this.playAudio();
         this.showActorAnimation(1);
     },
     onCollide : function (other) {
@@ -449,6 +460,7 @@ WeakEnemy.extend({
     moveAnimationOffset : Math.PI * 0.5,
     animations : ["./animation/paalworm_weak/move", "./animation/paalworm_weak/hit",
                   "./animation/paalworm_weak/attack"],
+    sounds : ["./audio/paalworm/hit.ogg"],
     onInit : function() {
         this.treasure = WeakTreasure;
         Enemy.onInit.apply(this);
@@ -463,6 +475,7 @@ StrongEnemy.extend({
     moveAnimationOffset : Math.PI,
     animations : ["./animation/paalworm_strong/move", "./animation/paalworm_strong/hit",
                   "./animation/paalworm_strong/attack"],
+    sounds : ["./audio/paalworm/hit_strong.ogg"],
     onInit : function() {
         this.treasure = StrongTreasure;
         Enemy.onInit.apply(this);
@@ -476,7 +489,7 @@ Defence.extend({
     name : "Defence",
     size : new vec2(settings.defenseSize.x*settings.tileSize.x,
                 settings.defenseSize.y*settings.tileSize.y),
-    animations : [],
+    sounds : ["./audio/heimeid/create.ogg"],
     collisionTag : collisionDefence,
     cooldown : settings.defenceCooldown,
     range : settings.defenceRange,
@@ -486,6 +499,7 @@ Defence.extend({
         if (this.position.x < settings.tileSize.x) {
             this.position.x -= this.size.x / 4;
         }
+        this.playAudio();
     },
     // return true if an enemy is in range and on the same lane
     enemyInRange : function () {
@@ -509,6 +523,7 @@ Stone.extend({
     "./animation/objects/rockblock/healthlost",
     "./animation/objects/rockblock/healthcritical",
     "./animation/objects/rockblock/break"],
+    sounds : ["./audio/objects/stone_create.ogg"],
     deathAnimation : 3,
     collisionTag : collisionStone,
     health : settings.stoneHealth,
@@ -821,12 +836,23 @@ StrongTreasure.extend({
 Platform = Actor.clone()
 Platform.extend({
     name : "Platform",
-    animations : ["./animation/objects/platform"],
+    animations : ["./animation/objects/platform",
+    "./animation/objects/platform_broken"],
+    brokenAnimation : 1,
+    sounds : ["./audio/objects/platform_create.ogg"],
     health : settings.platformHealth,
     building : null,
     tile : null,
     collisionTag : collisionPlatform,
     cost : settings.platformBuildCost,
+    onInit : function() {
+        this.playAudio();
+    },
+    onChangeHealth : function() {
+        if (this.health <= 0.5 * settings.platformHealth) {
+            this.showActorAnimation(this.brokenAnimation);
+        }
+    },
     onDeath : function () {
         if (this.building) {
             this.building.animatedDie();

diff --git a/script/game/gui.js b/script/game/gui.js
@@ -8,7 +8,7 @@ BuildingSelectButton.extend({
     size : new vec2(170,170),
 
     /* deselect any other selected building and select ours */
-    onclick : function() {
+    onmousedown : function() {
         if (!PlayerData.paused) {
             if (PlayerData.selectedBuilding != this.building) {
                 GUI.deselectBuilding();
@@ -203,9 +203,9 @@ GUI.extend({
     name : "GUI",
     active : false,
     size : {x: 1920, y: 1080},
-    buildingSelectButtonY : 80, /* the X value for all buildingSelectButtons */
-    buildingSelectButtonX : 25, /* the Y value for the first buildingSelectButton */
-    buildingSelectButtonSpace : 20, /* space between each buildingSelectButton */
+    buildingSelectButtonY : 123, /* the X value for all buildingSelectButtons */
+    buildingSelectButtonX : 23, /* the Y value for the first buildingSelectButton */
+    buildingSelectButtonSpace : 19, /* space between each buildingSelectButton */
     buildingSelectButtons : new Array(),
 
     startscreenGUIElements : new Array(), /* GUI elements to show before the game
@@ -217,6 +217,7 @@ GUI.extend({
     wavesTextBox : null,
     creditsTextBox : null,
     dykeHealthBox : null,
+    fpsTextBox : null,
 
     menuBar : null, /* reference to the side menu */
     game : null, /* reference to the game */
@@ -253,12 +254,13 @@ GUI.extend({
         this.initWavesText();
         this.initCreditsText();
         this.initDykeHealth();
+        this.initFPSText();
         this.initButtons();
         this.initMenuBar();
     },
     initWavesText : function() {
         this.wavesTextBox = Model.Drawables.TextDrawable.clone();
-		this.wavesTextBox.position = { x: 867, y:13};
+		this.wavesTextBox.position = { x: 1635, y:28};
 		this.wavesTextBox.size = { x:400, y: 20 };
 		this.wavesTextBox.font = "bold 52px US_Sans";
 		this.wavesTextBox.color = "#FE0000";
@@ -266,21 +268,30 @@ GUI.extend({
     },
     initCreditsText : function() {
         this.creditsTextBox = Model.Drawables.TextDrawable.clone();
-		this.creditsTextBox.position = { x: 1615,
-                                         y: 13 };
+		this.creditsTextBox.position = { x: 100,
+                                         y: 55 };
 		this.creditsTextBox.size = { x:400, y: 20 };
-		this.creditsTextBox.font = "bold 52px US_Sans";
+		this.creditsTextBox.font = "bold 35px US_Sans";
 		this.creditsTextBox.color = "#FEF500" ;
 		this.addGUIElement(this.creditsTextBox);
     },
     initDykeHealth : function() {
         this.dykeHealthBox = Model.Drawables.TextDrawable.clone();
-		this.dykeHealthBox.position = { x: 244,
-                                        y: 14 };
+		this.dykeHealthBox.position = { x: 274,
+                                        y: 28 };
 		this.dykeHealthBox.size = { x:400, y: 20 };
 		this.dykeHealthBox.font = "bold 52px US_Sans";
 		this.dykeHealthBox.color = "#23F407";
 		this.addGUIElement(this.dykeHealthBox);
+    },
+    initFPSText : function() {
+        this.fpsTextBox = Model.Drawables.TextDrawable.clone();
+		this.fpsTextBox.position = { x: 900,
+                                        y: 14 };
+		this.fpsTextBox.size = { x:400, y: 20 };
+		this.fpsTextBox.font = "bold 52px US_Sans";
+		this.fpsTextBox.color = "#FE0000";
+		this.addGUIElement(this.fpsTextBox);
     },
     /* initializes buttons and adds building select buttons */
     initButtons : function() {
@@ -347,7 +358,7 @@ GUI.extend({
         }
         this.game.gameStart();
         this.menuBar.gameStart();
-        this.buildingSelectButtons[0].onclick();
+        this.buildingSelectButtons[0].onmousedown();
         this.menuStop();
     },
     /* stops the game */
@@ -388,6 +399,9 @@ GUI.extend({
         this.creditsTextBox.text = "F " + PlayerData.credits + ",-";
         this.dykeHealthBox.text = "DIJK: " + ((this.game.dyke.health <= 0) ? 0 :
             Math.round((this.game.dyke.health / settings.dykeHealth * 100))) + "%";
+        if (settings.showFPS) {
+            this.fpsTextBox.text = "FPS: " + View.lastfps;
+        }
     }
 });
 

diff --git a/script/game/audio.js b/script/game/audio.js
@@ -1,20 +1,25 @@
 // Plays and manages audio
-AudioPlayer = Model.Drawables.BaseDrawable.clone();
-AudioPlayer.extend({
+AudioPlayer = {
     audioList : new Array, // list of audio elements
     paused : false, // whether the current audio is paused or not
     currentAudio : null, // index number of current audio element
     /* Loads one or more files and puts them in its audio list.
     Files are given by relative filepath */
     load : function() {
-        for (var i=0; i<arguments.length; i++) {
+        len = arguments.length;
+        for (var i = 0; i < len; i++) {
             if (typeof arguments[i] === 'string') {
                 var audio = document.createElement('audio');
                 audio.setAttribute('src', arguments[i]);
                 this.audioList[this.audioList.length] = audio;
+            } else if (typeof arguments[i] === 'object') { // assume array
+                var jlen = arguments[i].length;
+                for (var j = 0; j < jlen; j++) {
+                    this.load(arguments[i][j]);
+                }
             } else {
-                console.log("AudioPlayer Error: arguments are not all strings");
-                break;
+                console.log("AudioPlayer Error: argument " + arguments[i] +
+                            " is not a string or array");
             }
         }
     },
@@ -87,5 +92,4 @@ AudioPlayer.extend({
         if (this.currentAudio == null) return;
         this.audioList[this.currentAudio].removeAttribute('loop');
     }
-});
-
+}

diff --git a/script/game/heimeiden.js b/script/game/heimeiden.js
@@ -425,3 +425,6 @@ popupImage = function(position, size, image) {
 initialize = function() {
         Game.initialize();
 }
+
+/* set max FPS */
+View.fps = settings.maxFPS;

diff --git a/script/game/vector2.js b/script/game/vector2.js
@@ -1,4 +1,4 @@
-// object oriented 2D vector object
+/* object oriented 2D vector implementation */
 
 vec2 = function (arg1, arg2) {
     var x, y;
